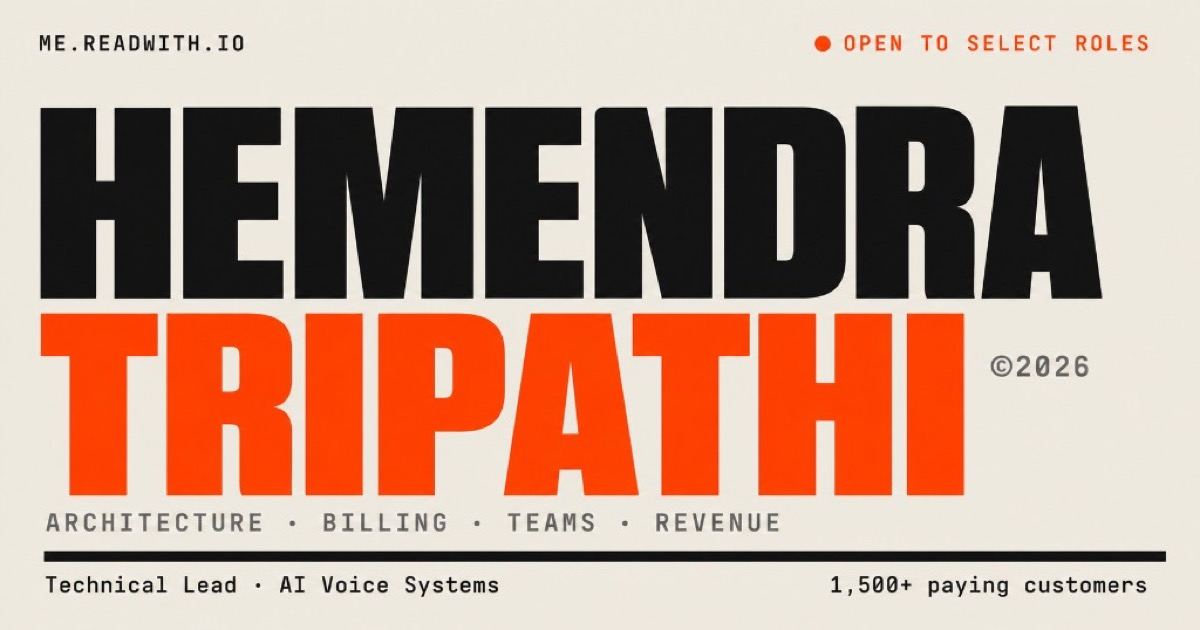
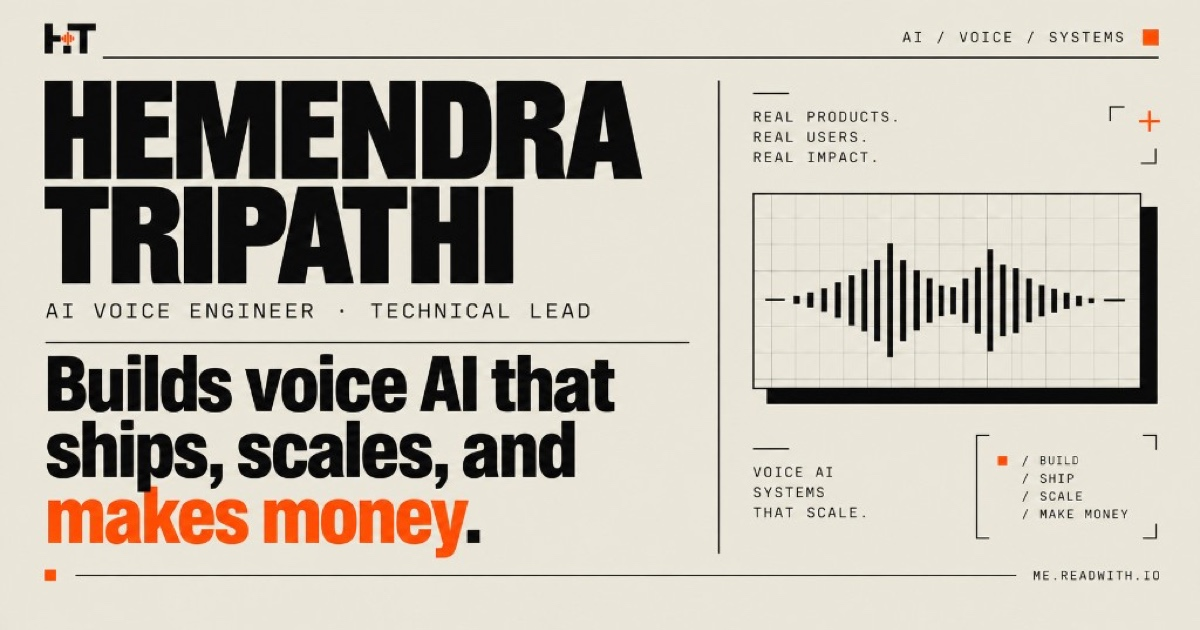
Update SEO metadata and images: replace hardcoded image details with SHARE_IMAGE constant in layout.tsx, enhance alt text for open graph and Twitter images, and update binary image files for consistency in branding.

diff --git a/src/app/layout.tsx b/src/app/layout.tsx
@@ -4,7 +4,7 @@ import { Archivo, JetBrains_Mono } from "next/font/google";
 import JsonLd from "@/components/JsonLd";
 import PixelCatLazy from "@/components/PixelCatLazy";
 import { LINKS } from "@/lib/content";
-import { jsonLdGraph, personJsonLd, SAME_AS, websiteJsonLd } from "@/lib/seo";
+import { jsonLdGraph, personJsonLd, SAME_AS, SHARE_IMAGE, websiteJsonLd } from "@/lib/seo";
 import { SITE, SITE_URL } from "@/lib/site";
 import "./globals.css";
 
@@ -40,21 +40,14 @@ export const metadata: Metadata = {
     siteName: SITE.name,
     locale: SITE.locale,
     type: "website",
-    images: [
-      {
-        url: "/opengraph-image.jpg",
-        width: 1200,
-        height: 630,
-        alt: SITE.title,
-      },
-    ],
+    images: [SHARE_IMAGE],
   },
   twitter: {
     card: "summary_large_image",
     title: SITE.title,
     description: SITE.shortDescription,
     creator: "@hemendra_tr",
-    images: ["/opengraph-image.jpg"],
+    images: [SHARE_IMAGE],
   },
   robots: {
     index: true,

diff --git a/src/lib/seo.ts b/src/lib/seo.ts
@@ -19,7 +19,7 @@ export const SHARE_IMAGE = {
   url: "/opengraph-image.jpg",
   width: 1200,
   height: 630,
-  alt: "Hemendra Tripathi, technical lead and AI Voice Engineer",
+  alt: "Hemendra Tripathi, AI Voice Engineer and Technical Lead. Builds voice AI that ships, scales, and makes money.",
 } as const;
 
 /** One site name for the whole host. Next overwrites layout `openGraph` per page, so spread this into every page. */
